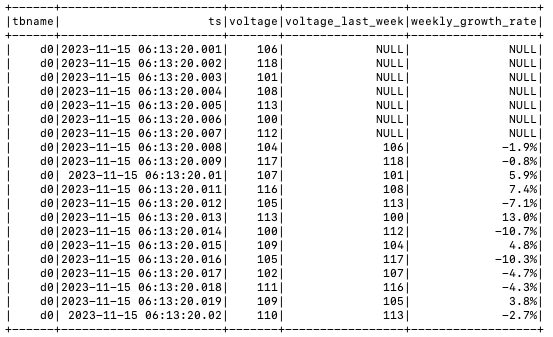
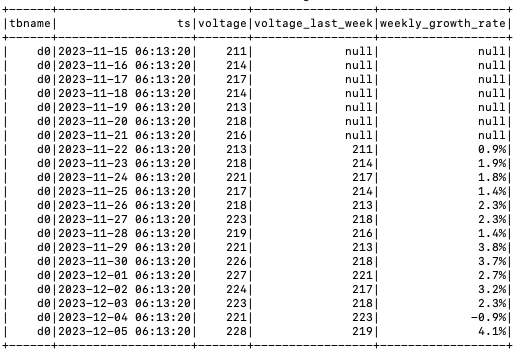
docs: review for second

Changed region(s): [[0.0, 0.0, 0.9903, 1.0]]

diff --git a/docs/zh/10-third-party/05-bi/15-spark.md b/docs/zh/10-third-party/05-bi/15-spark.md
@@ -22,8 +22,10 @@ toc_max_heading_level: 5
 ``` sql
 jdbc:TAOS-WS://[host_name]:[port]/[database_name]?[user={user}|&password={password}]
 ```
-详细参数介绍见：[URL 参数介绍](../../../reference/connector/java/#url-规范)
-driverClass 指定为“com.taosdata.jdbc.ws.WebSocketDriver”
+
+详细参数见：[URL 参数介绍](../../../reference/connector/java/#url-规范)。
+
+driverClass 指定为 “com.taosdata.jdbc.ws.WebSocketDriver”。
 
 以下示例创建 Spark 实例并连接到本机 TDengine 服务：
 ``` java
@@ -43,39 +45,192 @@ driverClass 指定为“com.taosdata.jdbc.ws.WebSocketDriver”
 
 ```
 
+## 数据交互
 
-## 数据接入
 数据接入需注册 TDengine 方言，方言中主要处理反引号，数据类型映射与 JDBC 相同, 无需额外处理，参见：[JDBC 数据类型映射](../../../reference/connector/java/#数据类型映射)
 
 下面以 JAVA 语言编写 Spark 任务，通过 `spark-submit` 提交任务执行为例，介绍数据接入，后附完整示例代码。
 
 ### 数据写入
-数据写入使用参数绑定完成，核心代码如下，详细参见示例： writeToTDengine
+
+数据写入使用参数绑定，分三步完成：
+
+**第 1 步**， 创建连接。
 ``` java
+  // create connect
+  String url = "jdbc:TAOS-WS://localhost:6041/test?user=root&password=taosdata";
+  Connection connection = DriverManager.getConnection(url);
+```
+
+**第 2 步**， 绑定数据并提交。
+``` java
+  // bind param
   String sql = String.format("INSERT INTO test.d%d using test.meters tags(%d,'location%d') VALUES (?,?,?,?) ", i, i, i);
   PreparedStatement preparedStatement = connection.prepareStatement(sql);
+  for (int j = 0; j < insertRows; j++) {
+      float current = (float)(10  + rand.nextInt(100) * 0.01);
+      float phase   = (float)(1   + rand.nextInt(100) * 0.0001);
+      int   voltage = (int)  (100 + rand.nextInt(20));
+
+      preparedStatement.setTimestamp(1, new Timestamp(ts + j));
+      preparedStatement.setFloat(2, current);
+      preparedStatement.setInt(3, voltage);
+      preparedStatement.setFloat(4, phase);
+      // submit
+      preparedStatement.executeUpdate();
+  }
 ```
+
+**第 3 步**， 关闭连接。
+``` java
+connection.close();
+```
+
+参见示例： writeToTDengine。
 
 ### 数据读取
-数据读取通过表映射方式读取，详细参见示例： readFromTDengine
+
+数据读取通过表映射方式读取，分四步完成：
+
+**第 1 步**， 创建 Spark 交互实例。
 ``` java
-  Dataset<Row> df = reader.option("dbtable", dbtable).load();
-  df.show();
+  // create connect
+  SparkSession spark = SparkSession.builder()
+      .appName("appSparkTest")
+      .master("local[*]")
+      .getOrCreate();
 ```
+
+**第 2 步**， 创建数据读取器。
+``` java
+  // create reader
+  String url = "jdbc:TAOS-WS://localhost:6041/test?user=root&password=taosdata";
+  int    timeout  = 60; // seconds
+  DataFrameReader reader = spark.read()
+      .format("jdbc") 
+      .option("url", url)
+      .option("driver", driver)
+      .option("queryTimeout", timeout);
+
+```
+
+**第 3 步**， 映射表，显示表内数据。
+``` java
+  // map table
+  Dataset<Row> df = reader.option("dbtable", dbtable).load();
+  df.show(Integer.MAX_VALUE, 40, false);
+  df.close()
+```
+
+**第 4 步**， 关闭交互。
+``` java
+  spark.stop();
+```
+
+参见示例： readFromTDengine。
 
 ### 数据订阅
-数据订阅使用 JDBC 标准数据订阅方法，详细参见示例： subscribeFromTDengine
+
+数据订阅使用 JDBC 标准数据订阅方法，分三步完成：
+
+**第 1 步**， 创建消费者。
 ``` java
-   List<String> topics = Collections.singletonList("topic_meters");
-   consumer.subscribe(topics);
+  // create consumer
+  TaosConsumer<ResultBean> consumer = getConsumer();
+
+  // getConsumer
+  public static TaosConsumer<ResultBean> getConsumer() throws Exception {
+
+      Properties config = new Properties();
+      config.setProperty("td.connect.type", "ws");
+      config.setProperty("bootstrap.servers", "localhost:6041");
+      config.setProperty("auto.offset.reset", "earliest");
+      config.setProperty("msg.with.table.name", "true");
+      config.setProperty("enable.auto.commit", "true");
+      config.setProperty("auto.commit.interval.ms", "1000");
+      config.setProperty("group.id", "group1");
+      config.setProperty("client.id", "clinet1");
+      config.setProperty("td.connect.user", "root");
+      config.setProperty("td.connect.pass", "taosdata");
+      config.setProperty("value.deserializer", "com.taosdata.java.SparkTest$ResultDeserializer");
+      config.setProperty("value.deserializer.encoding", "UTF-8");
+
+      try {
+          TaosConsumer<ResultBean> consumer= new TaosConsumer<>(config);
+          System.out.printf("Create consumer successfully, host: %s, groupId: %s, clientId: %s%n",
+                  config.getProperty("bootstrap.servers"),
+                  config.getProperty("group.id"),
+                  config.getProperty("client.id"));
+          return consumer;
+      } catch (Exception ex) {
+          // please refer to the JDBC specifications for detailed exceptions info
+          System.out.printf("Failed to create websocket consumer, host: %s, groupId: %s, clientId: %s, %sErrMessage: %s%n",
+                  config.getProperty("bootstrap.servers"),
+                  config.getProperty("group.id"),
+                  config.getProperty("client.id"),
+                  ex instanceof SQLException ? "ErrCode: " + ((SQLException) ex).getErrorCode() + ", " : "",
+                  ex.getMessage());
+          // Print stack trace for context in examples. Use logging in production.
+          ex.printStackTrace();
+          throw ex;
+      }
+  }
 ```
 
+**第 2 步**， 订阅主题，消费数据。
+``` java
+    // poll data from server
+    pollExample(consumer);
+
+    // pollExample
+    public static void pollExample(TaosConsumer<ResultBean> consumer) throws SQLException, JsonProcessingException {
+        List<String> topics = Collections.singletonList("topic_meters");
+        try {
+            // subscribe to the topics
+            consumer.subscribe(topics);
+            System.out.println("Subscribe topics successfully.");
+            for (int i = 0; i < 100; i++) {
+                // poll data
+                ConsumerRecords<ResultBean> records = consumer.poll(Duration.ofMillis(100));
+                for (ConsumerRecord<ResultBean> record : records) {
+                    ResultBean bean = record.value();
+                    // Add your data processing logic here
+                    System.out.println("data: " + JsonUtil.getObjectMapper().writeValueAsString(bean));
+                }
+            }
+        } catch (Exception ex) {
+            // please refer to the JDBC specifications for detailed exceptions info
+            System.out.printf("Failed to poll data, topic: %s, groupId: %s, clientId: %s, %sErrMessage: %s%n",
+                    topics.get(0),
+                    groupId,
+                    clientId,
+                    ex instanceof SQLException ? "ErrCode: " + ((SQLException) ex).getErrorCode() + ", " : "",
+                    ex.getMessage());
+            // Print stack trace for context in examples. Use logging in production.
+            ex.printStackTrace();
+            throw ex;
+        }
+    } 
+
+```
+
+**第 3 步**， 取消订阅，释放资源。
+``` java
+  // close
+  consumer.unsubscribe();
+  consumer.close();
+```
+
+详细参见示例： subscribeFromTDengine。
 
 ## 数据分析
 
+### 场景介绍
+示例场景为一个家庭使用的智能电表，数据存储在 TDengine, 分析单台智能电表每周用电的电压变化情况。
+
 ### 数据准备
 
-以智能电表数据为样例，生成一个超级表，两个子表，每个子表写入 20 条数据，电压数据生成在 100 ~ 120 范围内随机数
+生成一个超级表，一个子表，每天会固定产生一条数据，生成三周数据共 21 条，电压数据在 210 ~ 230 范围内随机变化
 
 ### 分析电压周变化率
 LAG() 函数是 Spark 提供获取当前行之前某行数据的函数，示例使用此函数进行电压周变化率分析。
